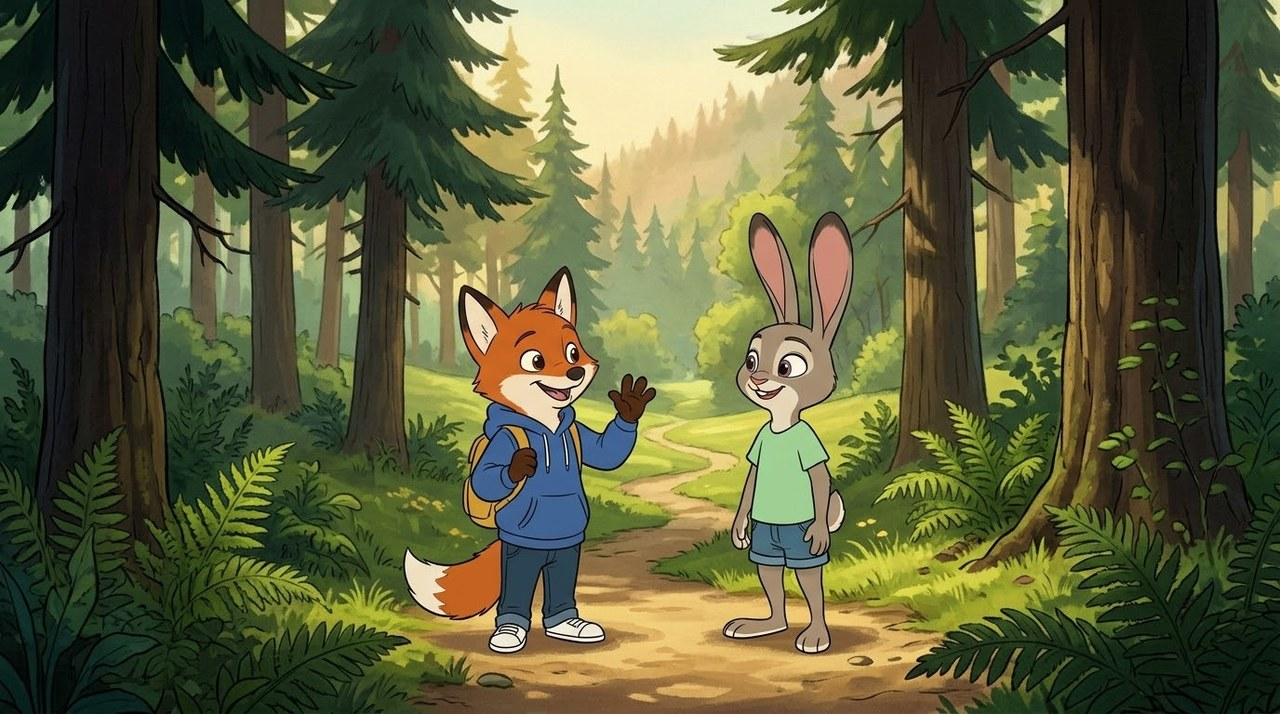
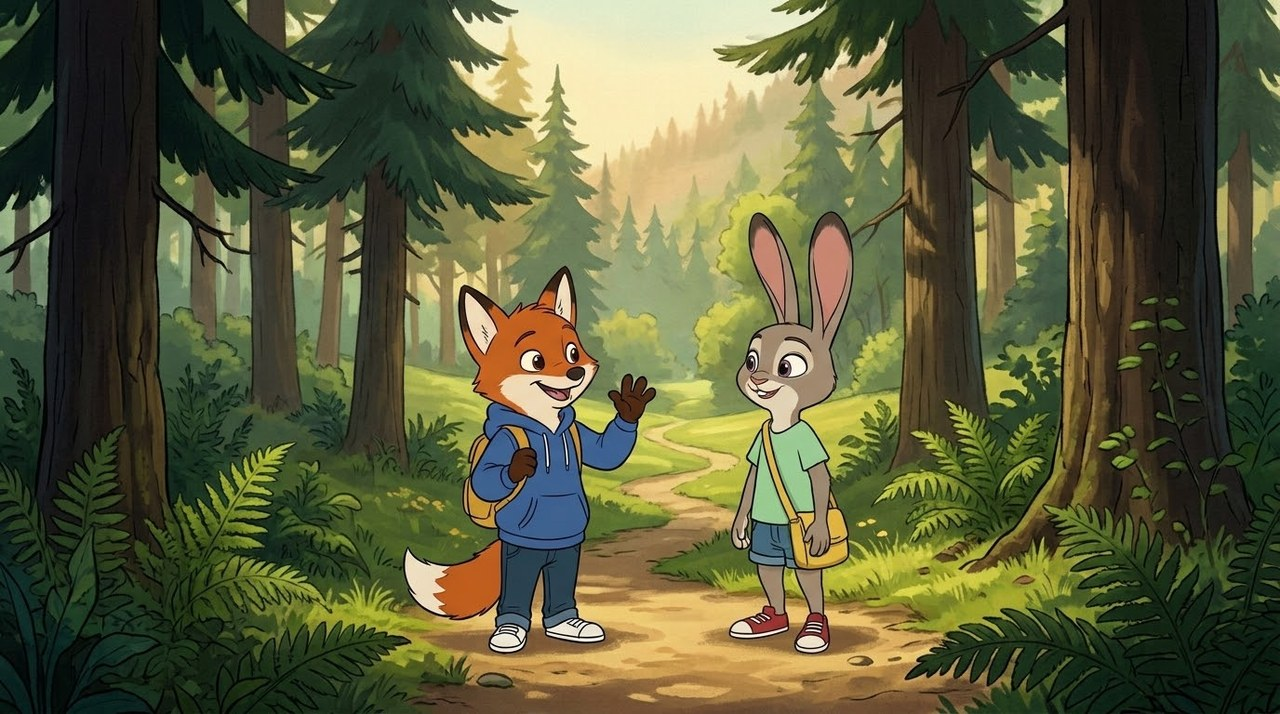
Kit 03 corrigé (sacoche et baskets de Lea) et illustration IA de Familie 05
Claude-Session: https://claude.ai/code/session_01VgBQmvtNzpdYvTQXwXDqpK

Changed region(s): [[0.5938, 0.5854, 0.6875, 0.8011], [0.5625, 0.8319, 0.6562, 0.9244], [0.5938, 0.5238, 0.625, 0.5546]]

diff --git a/img/credits.md b/img/credits.md
@@ -43,7 +43,7 @@ Photos Wikimedia Commons insérées par `@` dans chaque fiche (via `Special:File
 | 10_Series_01_Familie_02_wie-alt-bist-du | [Hare in Jusandala 1.jpg](https://commons.wikimedia.org/wiki/File:Hare_in_Jusandala_1.jpg) | AlyonaKaptyonkina | CC BY-SA 4.0 |
 | 10_Series_01_Familie_03_bei-oma-und-opa | [Cervus elaphus Luc Viatour 1.jpg](https://commons.wikimedia.org/wiki/File:Cervus_elaphus_Luc_Viatour_1.jpg) | Lviatour | CC BY-SA 3.0 |
 | 10_Series_01_Familie_04_was-machen-wir-zusammen | [Red fox kits playing Bombay Hook (36455).jpg](https://commons.wikimedia.org/wiki/File:Red_fox_kits_playing_Bombay_Hook_(36455).jpg) | Rhododendrites | CC BY-SA 4.0 |
-| 10_Series_01_Familie_05_bei-lea-zu-hause | [European badger (Meles meles taxus) Drenthe.jpg](https://commons.wikimedia.org/wiki/File:European_badger_(Meles_meles_taxus)_Drenthe.jpg) | Charles J. Sharp | CC BY-SA 4.0 |
+| 10_Series_01_Familie_05_bei-lea-zu-hause (`illus_01_familie.jpg`, illustration IA) | [European badger (Meles meles taxus) Drenthe.jpg](https://commons.wikimedia.org/wiki/File:European_badger_(Meles_meles_taxus)_Drenthe.jpg) | Charles J. Sharp | CC BY-SA 4.0 (œuvre dérivée, générée avec Google Gemini) |
 | 10_Series_01_Familie_06_extra | [Young Foxes 2 (7236327624).jpg](https://commons.wikimedia.org/wiki/File:Young_Foxes_2_(7236327624).jpg) | Tony Hisgett | CC BY 2.0 |
 | 10_Series_02_Haus_01_unsere-zimmer | [Morlokhof Baiersbronn - Black Forest-farmhouse.jpg](https://commons.wikimedia.org/wiki/File:Morlokhof_Baiersbronn_-_Black_Forest-farmhouse.jpg) | Roman Boed | CC BY 2.0 |
 | 10_Series_02_Haus_02_die-moebel | [Badger sett.jpg](https://commons.wikimedia.org/wiki/File:Badger_sett.jpg) | Rubbish computer | CC BY-SA 4.0 |

diff --git a/md/10_Series_01_Familie_05_bei-lea-zu-hause.md b/md/10_Series_01_Familie_05_bei-lea-zu-hause.md
@@ -1,6 +1,6 @@
 # Série Familie (5/5) — Bei Lea zu Hause
 
-@ https://commons.wikimedia.org/wiki/Special:FilePath/European_badger_%28Meles_meles_taxus%29_Drenthe.jpg?width=800 | Un blaireau européen, comme Tom (photo : Charles J. Sharp, CC BY-SA 4.0, Wikimedia Commons)
+@ img/illus_01_familie.jpg | Bei Lea zu Hause : Lea te présente sa maison, avec Tom et Oma Hilde. Illustration générée avec Google Gemini, d'après une photo de Charles J. Sharp (Wikimedia Commons, CC BY-SA 4.0)
 
 {{fr:Tu vas chez Lea ! Tu rencontres son copain Tom, un blaireau, et sa mamie Hilde, un hibou. Écoute bien : tu connais presque tous les mots.}}
 
